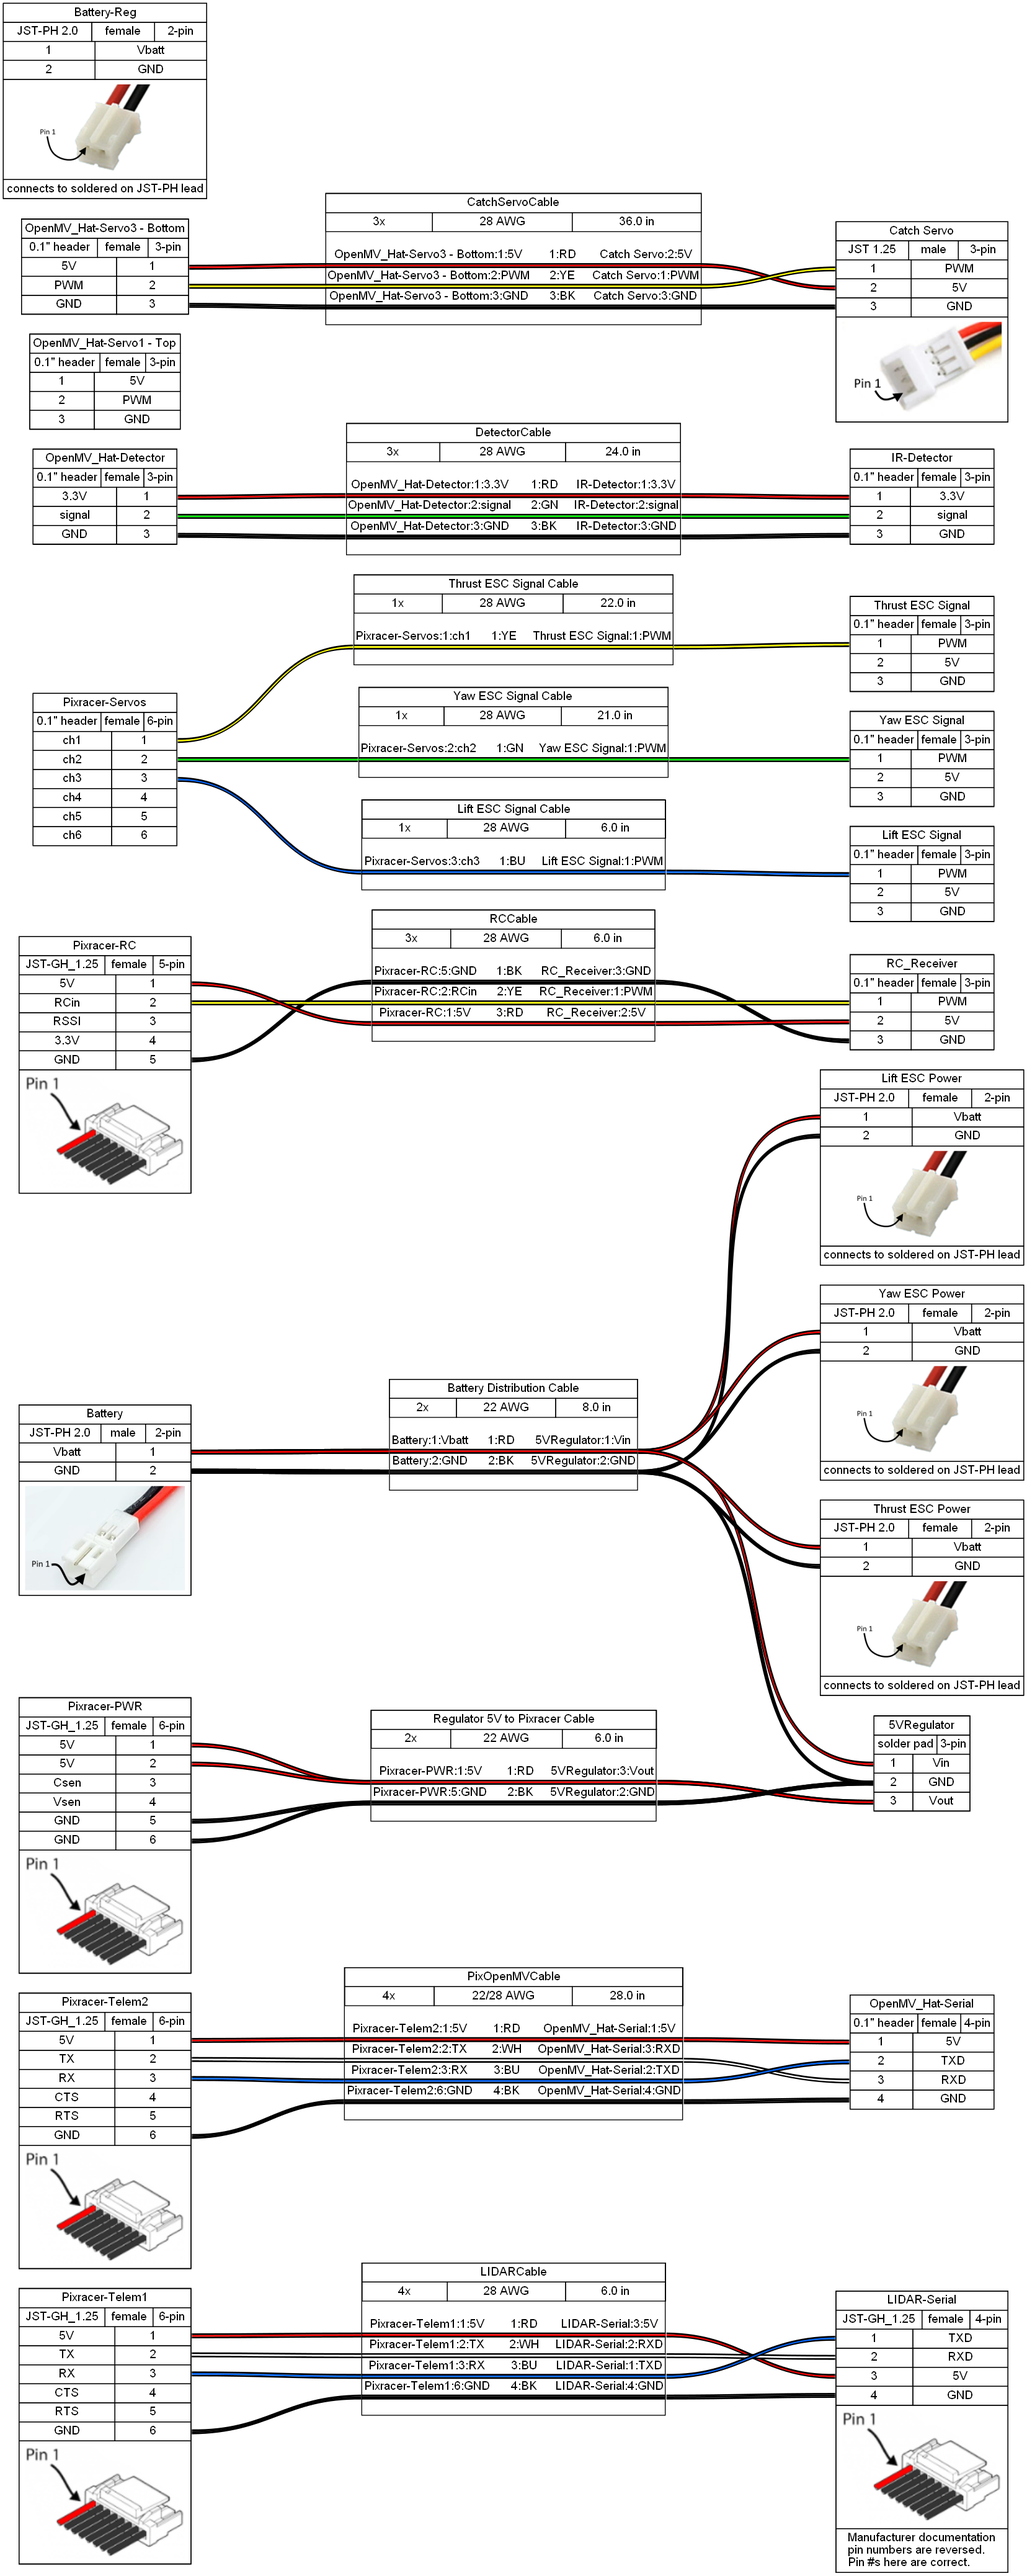
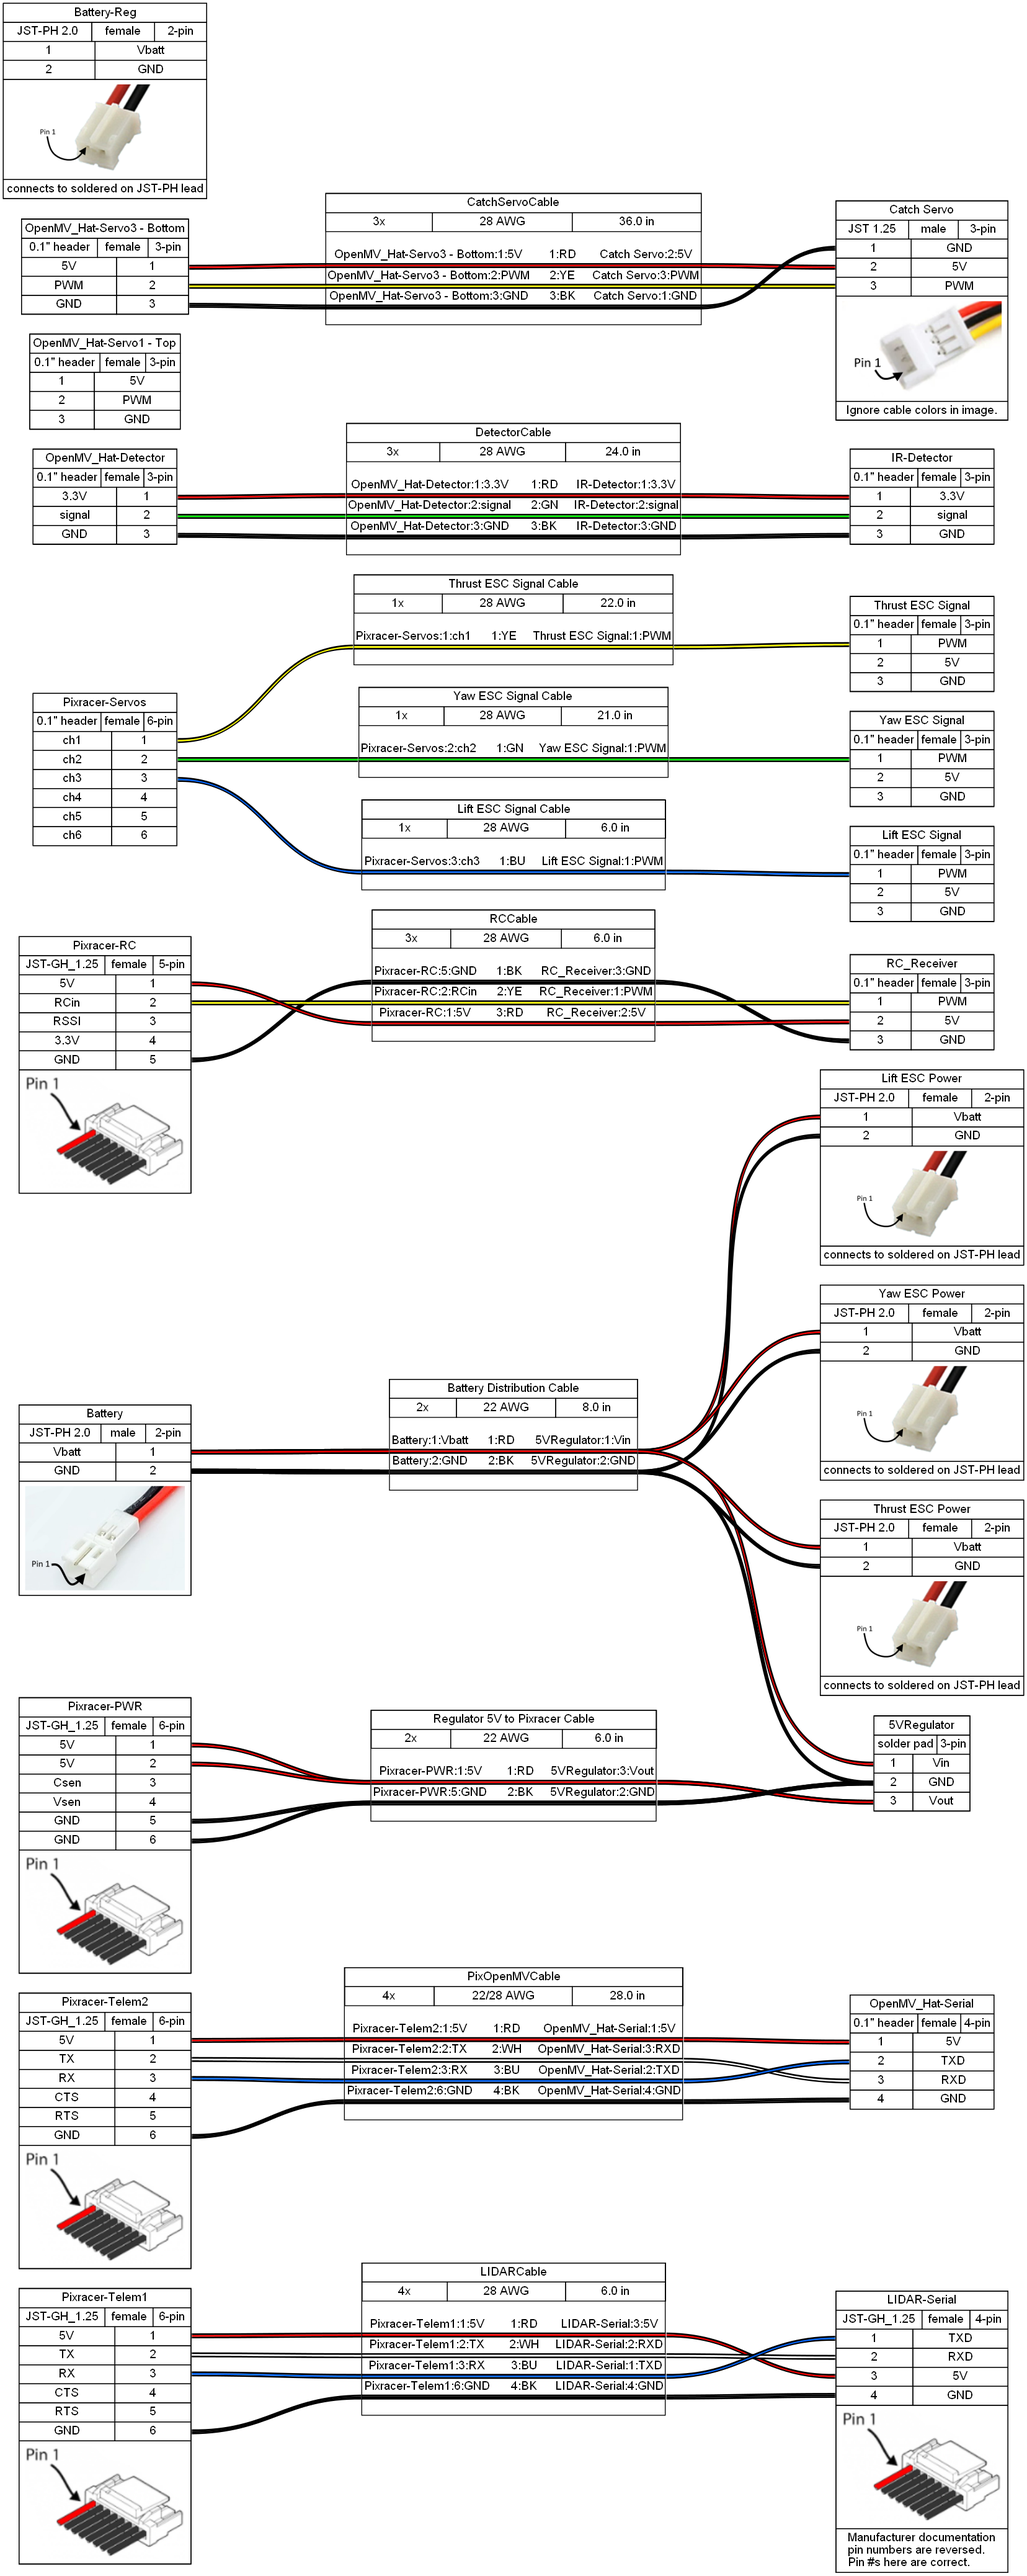
Update wire diagram to note odd color coding of catch servo connector.

Changed region(s): [[0.6775, 0.0622, 0.9855, 0.1865]]

diff --git a/Blimp/Wiring Diagrams/Blimpy_wiring.html b/Blimp/Wiring Diagrams/Blimpy_wiring.html
@@ -734,13 +734,13 @@
 <polygon fill="#000000" stroke="transparent" points="390,-2785 390,-2787 844,-2787 844,-2785 390,-2785"/>
 <text text-anchor="start" x="392" y="-2771.8" font-family="arial" font-size="14.00">OpenMV_Hat&#45;Servo3 &#45; Bottom:2:PWM</text>
 <text text-anchor="start" x="642" y="-2771.8" font-family="arial" font-size="14.00"> &#160;&#160;&#160;&#160;2:YE &#160;&#160;&#160;</text>
-<text text-anchor="start" x="712" y="-2771.8" font-family="arial" font-size="14.00">Catch Servo:1:PWM</text>
+<text text-anchor="start" x="712" y="-2771.8" font-family="arial" font-size="14.00">Catch Servo:3:PWM</text>
 <polygon fill="#000000" stroke="transparent" points="390,-2764 390,-2766 844,-2766 844,-2764 390,-2764"/>
 <polygon fill="#ffff00" stroke="transparent" points="390,-2762 390,-2764 844,-2764 844,-2762 390,-2762"/>
 <polygon fill="#000000" stroke="transparent" points="390,-2760 390,-2762 844,-2762 844,-2760 390,-2760"/>
 <text text-anchor="start" x="394" y="-2746.8" font-family="arial" font-size="14.00">OpenMV_Hat&#45;Servo3 &#45; Bottom:3:GND</text>
 <text text-anchor="start" x="641.5" y="-2746.8" font-family="arial" font-size="14.00"> &#160;&#160;&#160;&#160;3:BK &#160;&#160;&#160;</text>
-<text text-anchor="start" x="714" y="-2746.8" font-family="arial" font-size="14.00">Catch Servo:3:GND</text>
+<text text-anchor="start" x="714" y="-2746.8" font-family="arial" font-size="14.00">Catch Servo:1:GND</text>
 <polygon fill="#000000" stroke="transparent" points="390,-2739 390,-2741 844,-2741 844,-2739 390,-2739"/>
 <polygon fill="#000000" stroke="transparent" points="390,-2737 390,-2739 844,-2739 844,-2737 390,-2737"/>
 <polygon fill="#000000" stroke="transparent" points="390,-2735 390,-2737 844,-2737 844,-2735 390,-2735"/>
@@ -1134,29 +1134,31 @@
 <!-- Catch Servo -->
 <g id="node22" class="node">
 <title>Catch Servo</title>
-<polygon fill="#ffffff" stroke="black" points="1215,-2841 1007,-2841 1007,-2599 1215,-2599 1215,-2841"/>
-<polygon fill="none" stroke="black" points="1007,-2818 1007,-2841 1215,-2841 1215,-2818 1007,-2818"/>
-<text text-anchor="start" x="1071.5" y="-2825.8" font-family="arial" font-size="14.00">Catch Servo</text>
-<polygon fill="none" stroke="black" points="1007,-2795 1007,-2818 1095,-2818 1095,-2795 1007,-2795"/>
-<text text-anchor="start" x="1021.5" y="-2802.8" font-family="arial" font-size="14.00">JST 1.25</text>
-<polygon fill="none" stroke="black" points="1095,-2795 1095,-2818 1155,-2818 1155,-2795 1095,-2795"/>
-<text text-anchor="start" x="1109.5" y="-2802.8" font-family="arial" font-size="14.00">male</text>
-<polygon fill="none" stroke="black" points="1155,-2795 1155,-2818 1215,-2818 1215,-2795 1155,-2795"/>
-<text text-anchor="start" x="1169" y="-2802.8" font-family="arial" font-size="14.00">3&#45;pin</text>
-<polygon fill="none" stroke="black" points="1007,-2772 1007,-2795 1098,-2795 1098,-2772 1007,-2772"/>
-<text text-anchor="start" x="1048" y="-2779.8" font-family="arial" font-size="14.00">1</text>
-<polygon fill="none" stroke="black" points="1098,-2772 1098,-2795 1215,-2795 1215,-2772 1098,-2772"/>
-<text text-anchor="start" x="1138.5" y="-2779.8" font-family="arial" font-size="14.00">PWM</text>
-<polygon fill="none" stroke="black" points="1007,-2749 1007,-2772 1098,-2772 1098,-2749 1007,-2749"/>
-<text text-anchor="start" x="1048" y="-2756.8" font-family="arial" font-size="14.00">2</text>
-<polygon fill="none" stroke="black" points="1098,-2749 1098,-2772 1215,-2772 1215,-2749 1098,-2749"/>
-<text text-anchor="start" x="1147" y="-2756.8" font-family="arial" font-size="14.00">5V</text>
-<polygon fill="none" stroke="black" points="1007,-2726 1007,-2749 1098,-2749 1098,-2726 1007,-2726"/>
-<text text-anchor="start" x="1048" y="-2733.8" font-family="arial" font-size="14.00">3</text>
-<polygon fill="none" stroke="black" points="1098,-2726 1098,-2749 1215,-2749 1215,-2726 1098,-2726"/>
-<text text-anchor="start" x="1140.5" y="-2733.8" font-family="arial" font-size="14.00">GND</text>
-<polygon fill="none" stroke="black" points="1007,-2599 1007,-2726 1215,-2726 1215,-2599 1007,-2599"/>
-<image xlink:href="JST 1.25 3 Pos Pin ID.png" width="192.181px" height="115px" preserveAspectRatio="xMinYMin meet" x="1014.91" y="-2720"/>
+<polygon fill="#ffffff" stroke="black" points="1215,-2866.5 1007,-2866.5 1007,-2601.5 1215,-2601.5 1215,-2866.5"/>
+<polygon fill="none" stroke="black" points="1007,-2843 1007,-2866 1215,-2866 1215,-2843 1007,-2843"/>
+<text text-anchor="start" x="1071.5" y="-2850.8" font-family="arial" font-size="14.00">Catch Servo</text>
+<polygon fill="none" stroke="black" points="1007,-2820 1007,-2843 1095,-2843 1095,-2820 1007,-2820"/>
+<text text-anchor="start" x="1021.5" y="-2827.8" font-family="arial" font-size="14.00">JST 1.25</text>
+<polygon fill="none" stroke="black" points="1095,-2820 1095,-2843 1155,-2843 1155,-2820 1095,-2820"/>
+<text text-anchor="start" x="1109.5" y="-2827.8" font-family="arial" font-size="14.00">male</text>
+<polygon fill="none" stroke="black" points="1155,-2820 1155,-2843 1215,-2843 1215,-2820 1155,-2820"/>
+<text text-anchor="start" x="1169" y="-2827.8" font-family="arial" font-size="14.00">3&#45;pin</text>
+<polygon fill="none" stroke="black" points="1007,-2797 1007,-2820 1098,-2820 1098,-2797 1007,-2797"/>
+<text text-anchor="start" x="1048" y="-2804.8" font-family="arial" font-size="14.00">1</text>
+<polygon fill="none" stroke="black" points="1098,-2797 1098,-2820 1215,-2820 1215,-2797 1098,-2797"/>
+<text text-anchor="start" x="1140.5" y="-2804.8" font-family="arial" font-size="14.00">GND</text>
+<polygon fill="none" stroke="black" points="1007,-2774 1007,-2797 1098,-2797 1098,-2774 1007,-2774"/>
+<text text-anchor="start" x="1048" y="-2781.8" font-family="arial" font-size="14.00">2</text>
+<polygon fill="none" stroke="black" points="1098,-2774 1098,-2797 1215,-2797 1215,-2774 1098,-2774"/>
+<text text-anchor="start" x="1147" y="-2781.8" font-family="arial" font-size="14.00">5V</text>
+<polygon fill="none" stroke="black" points="1007,-2751 1007,-2774 1098,-2774 1098,-2751 1007,-2751"/>
+<text text-anchor="start" x="1048" y="-2758.8" font-family="arial" font-size="14.00">3</text>
+<polygon fill="none" stroke="black" points="1098,-2751 1098,-2774 1215,-2774 1215,-2751 1098,-2751"/>
+<text text-anchor="start" x="1138.5" y="-2758.8" font-family="arial" font-size="14.00">PWM</text>
+<polygon fill="none" stroke="black" points="1007,-2624 1007,-2751 1215,-2751 1215,-2624 1007,-2624"/>
+<image xlink:href="JST 1.25 3 Pos Pin ID.png" width="192.181px" height="115px" preserveAspectRatio="xMinYMin meet" x="1014.91" y="-2745"/>
+<polygon fill="none" stroke="black" points="1007,-2601 1007,-2624 1215,-2624 1215,-2601 1007,-2601"/>
+<text text-anchor="start" x="1019" y="-2608.8" font-family="arial" font-size="14.00">Ignore cable colors in image.</text>
 </g>
 <!-- Battery Distribution Cable&#45;&#45;5VRegulator -->
 <g id="edge2" class="edge">
@@ -1266,23 +1268,23 @@
 <!-- CatchServoCable&#45;&#45;Catch Servo -->
 <g id="edge32" class="edge">
 <title>CatchServoCable:e&#45;&#45;Catch Servo:w</title>
-<path fill="none" stroke="#000000" stroke-width="2" d="M844,-2786C915.27,-2786.98 931.29,-2759.98 1006,-2759"/>
-<path fill="none" stroke="#ff0000" stroke-width="2" d="M844,-2788C916.99,-2788 933.01,-2761 1006,-2761"/>
-<path fill="none" stroke="#000000" stroke-width="2" d="M844,-2790C918.71,-2789.02 934.73,-2762.02 1006,-2763"/>
+<path fill="none" stroke="#000000" stroke-width="2" d="M844,-2786C915.78,-2786.01 933.77,-2784.01 1006,-2784"/>
+<path fill="none" stroke="#ff0000" stroke-width="2" d="M844,-2788C916.01,-2788 933.99,-2786 1006,-2786"/>
+<path fill="none" stroke="#000000" stroke-width="2" d="M844,-2790C916.23,-2789.99 934.22,-2787.99 1006,-2788"/>
 </g>
 <!-- CatchServoCable&#45;&#45;Catch Servo -->
 <g id="edge34" class="edge">
 <title>CatchServoCable:e&#45;&#45;Catch Servo:w</title>
-<path fill="none" stroke="#000000" stroke-width="2" d="M844,-2761C918.16,-2761.75 934.96,-2782.75 1006,-2782"/>
-<path fill="none" stroke="#ffff00" stroke-width="2" d="M844,-2763C916.6,-2763 933.4,-2784 1006,-2784"/>
-<path fill="none" stroke="#000000" stroke-width="2" d="M844,-2765C915.04,-2764.25 931.84,-2785.25 1006,-2786"/>
+<path fill="none" stroke="#000000" stroke-width="2" d="M844,-2761C916,-2761 934,-2761 1006,-2761"/>
+<path fill="none" stroke="#ffff00" stroke-width="2" d="M844,-2763C916,-2763 934,-2763 1006,-2763"/>
+<path fill="none" stroke="#000000" stroke-width="2" d="M844,-2765C916,-2765 934,-2765 1006,-2765"/>
 </g>
 <!-- CatchServoCable&#45;&#45;Catch Servo -->
 <g id="edge36" class="edge">
 <title>CatchServoCable:e&#45;&#45;Catch Servo:w</title>
-<path fill="none" stroke="#000000" stroke-width="2" d="M844,-2736C916,-2736 934,-2736 1006,-2736"/>
-<path fill="none" stroke="#000000" stroke-width="2" d="M844,-2738C916,-2738 934,-2738 1006,-2738"/>
-<path fill="none" stroke="#000000" stroke-width="2" d="M844,-2740C916,-2740 934,-2740 1006,-2740"/>
+<path fill="none" stroke="#000000" stroke-width="2" d="M844,-2736C924.61,-2737.87 929.38,-2808.87 1006,-2807"/>
+<path fill="none" stroke="#000000" stroke-width="2" d="M844,-2738C922.61,-2738 927.39,-2809 1006,-2809"/>
+<path fill="none" stroke="#000000" stroke-width="2" d="M844,-2740C920.62,-2738.13 925.39,-2809.13 1006,-2811"/>
 </g>
 <!-- RCCable&#45;&#45;RC_Receiver -->
 <g id="edge38" class="edge">
